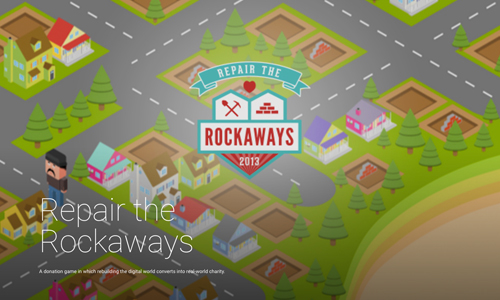
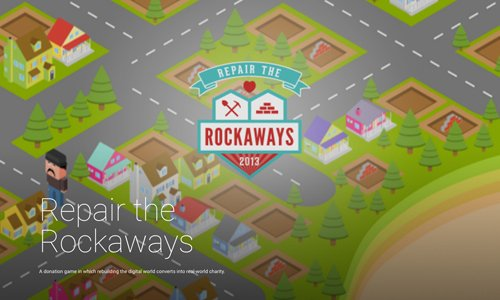
Add opt images

diff --git a/gulp/tasks/assets.js b/gulp/tasks/assets.js
@@ -4,7 +4,9 @@ module.exports = function(config) {
 
 	gulp.task('assets', function() {
 		gulp.src(config.assets.src)
-			.pipe(imagemin())
+			.pipe(imagemin([
+				imagemin.jpegtran({progressive: true}),
+			]))
 	        .pipe(gulp.dest(config.build + '/assets'));
 	});
 }
